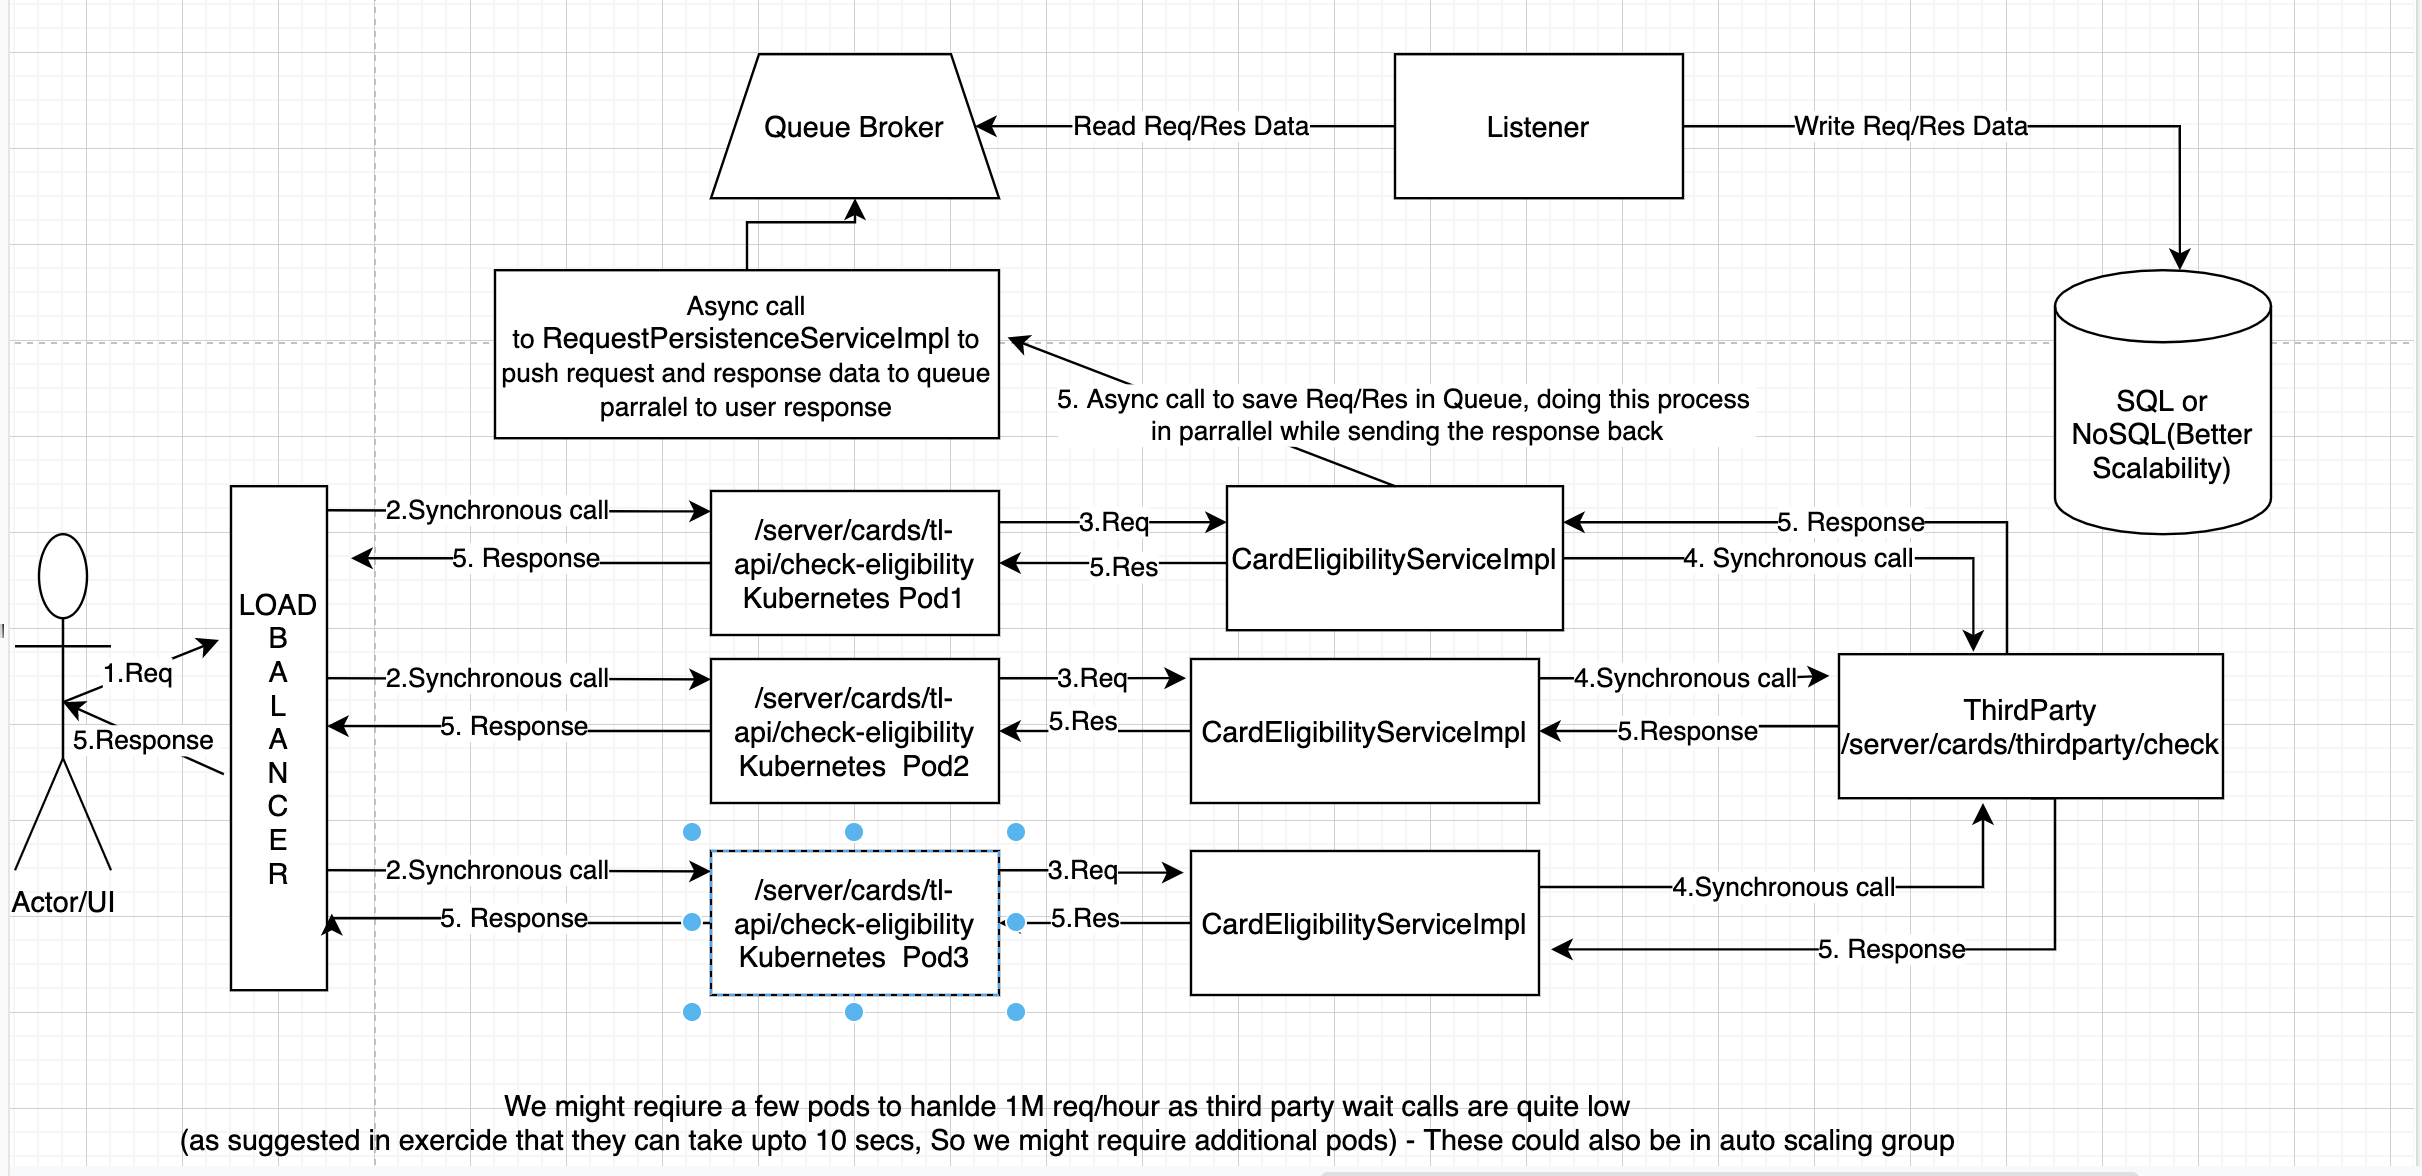
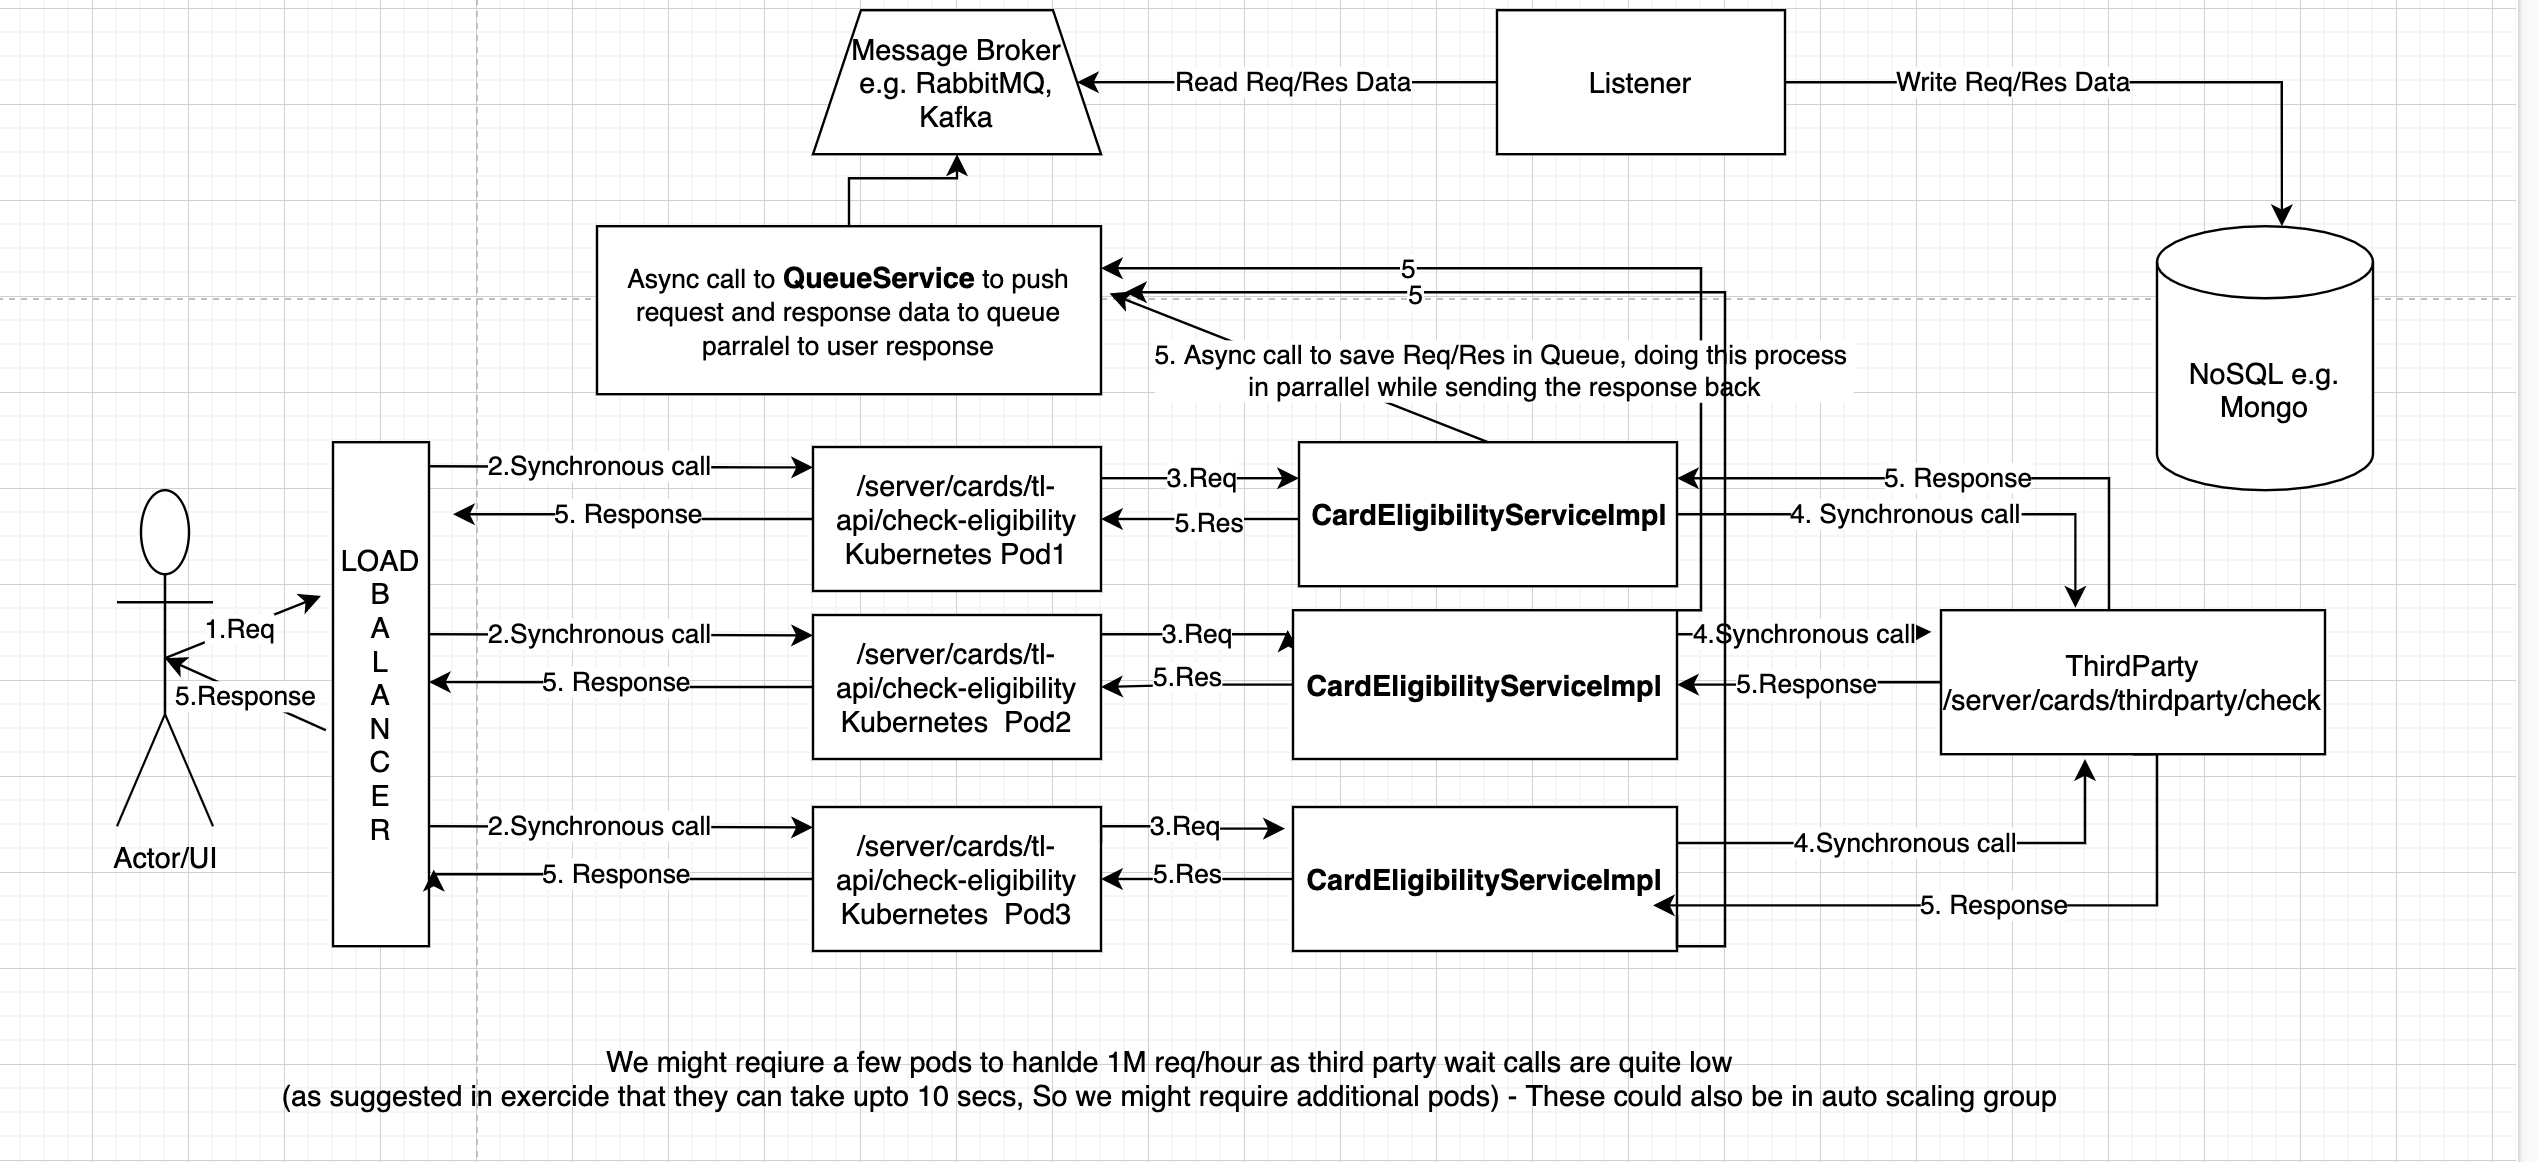
Added architecture diagram and README.md

diff --git a/server/cards/tl-api/src/main/java/com/tradeledger/cards/service/QueueServiceImpl.java b/server/cards/tl-api/src/main/java/com/tradeledger/cards/service/QueueServiceImpl.java
@@ -35,7 +35,7 @@ public class QueueServiceImpl implements QueueService {
         try {
             //Push message to a queue - Queue settings Rabbit/Kafka - then this could be
             //used by listeners to persist the data into DB
-            Thread.sleep(10);
+            Thread.sleep(50);
             log.info("message queued {} ", queueMessage);
         } catch (Exception e) {
             log.error("Error {} , queueMessage {} ", e, queueMessage);

diff --git a/README.md b/README.md
@@ -1,121 +1,51 @@
 # Cards Application
+## BackEnd 
+###Calculations
 
-## Problem statement
 
-A bank wants to launch 2 new credit card products, C1 and C2. To receive applications for the products the bank will collect the following detail about the _applicant_ in a web-form or mobile app, which the bank provides:
 
-1. Name
-2. Address
-3. Email id
+- Considering 1 request will take 10 seconds to process in synchronous manner as suggested in the 
+  test description.
+- Now, How our TL service responds to these requests depends highly on the hardware, servers etc
+  where the service is deployed. So considering server as Tomcat we can serve 200 requests per given second (with default number of threads).
+  So, we might need to have few pods of this service available.
+  1 tomcat can serve 200 requests / sec and for processing 1M request in first hour we need
+  to process 1000000/(60*60)= 278 requests/second. And each of these requests could take upto
+  10 seconds to receive a response. So lets say we have a strong Hardware , with 278 threads
+  configured for Tomcat. We need minimum 10-11 such servers to be able to process this volume.
+- We can orchestrate all these deployment pods with Kubernetes or maybe adding auto scaling groups.
+- We have resolved the database bottleneck using Async service and Queue Message Brokers (RabbitMQ/Kafka).
+  So, user won't have to wait until data is transferred to Queue and then persisted to DB using listeners.
+- Using NoSQL to store the data due it's availability , scalability and the fact that we don't need
+  any ACID properties or relation between tables.
 
-The submission of this form will be received by a Tradeledger API and sent over to a Thirdparty service for eligibility decisioning. The Thirdparty provides a RESTful api which responds with one of the following eligibilities:
+### Backend Architecture
 
-1. C1
-2. C2
-3. Both C1 and C2
-4. Neither C1 nor C2
+![image info](./server/cards/tl-api/TL-API-Architecture.png)
 
-The Tradeledger APIs should interface with the Thirdparty, sending an eligibility request and updating the user with the result of their application.
 
-## Exercise Overview
+### Handled Edge Cases
+  1. Error handling when third party api is down
+  2. input validation - mandatory fields
 
-### FE
+### Test Coverage - BE
 
-1. Create React App (CRA)
+![image info](./server/cards/tl-api/BETestCoverage.png)
 
-### BE
+## FrontEnd
 
-1. A Microservices with Spring Boot (2.2.3.RELEASE+)
-2. Build Automation Tool - Gradle (6.0.1+)
+1. Added Field level validations on the page.
+2. Upon submit response will be displayed i.e. number of cards or info message.
+3. In case the third party api is down user will be given a message saying that "Oops! There have been an issue connecting to the servers , 
+   Please try in a while".
+4. Used Redux for state management.
+5. Added back button functionality from results page.
 
-## Completing the exercise
-
-### Submission
-
-1. Fork the repo to your own repository or setup provided _.zip_ project into your own repository.
-2. Complete the exercise.
-3. Please provide a link to your public repo with the completed task to the Talent Acquisition team.
-
-### Duration
-
-You should spend around ~1.5hrs on this task. You may spend longer if you wish, but ensure you think about which are the most critical pieces to complete first.
-
-## How to Run
-
-Open the project with IntelliJ or Eclipse or any other IDE of your choice
-
-### FE
-1. Go To terminal.
-2. cd client/cards -- Browse to Directory i.e. client/cards
-3. npm i -- to install the app
-4. npm test -- to test the app
-5. npm start -- to run the app
-
-### BE
-1. Go To terminal.
-2. cd server/cards --- Browse to Directory i.e. server/cards
-3. ./gradlew build -- to build the solution and third party
-4. ./gradlew test -- to unit/integration test the solution and third party
-5. ./gradlew bootRun -- to run the solution and third party applications simultaneously
-6. ./gradlew clean -- to clean the solution and third party
-
-or alternatively you can use IDE's builtin plugin for Gradle for these Gradle goals
-
-_Note: Gradle version should be 6.0.1+_
-
-## Task
-
-1. For BE, in /server, build a synchronous Tradeledger API to orchestrate the journey from the application submission to retrieval of response. The API should call the provided Thirdparty endpoint over HTTP.
-2. For FE, in /client, implement a call to the API you've just built and display the results using the provided components.
-
-## Stub structure
-
-### FE
-Within `/client/cards` the FE application is a simple CRA. You are provided with a simple form with inputs for name, email and address. You are required to implement the code to call the BE service and display the result. 
-Feel free to include any additional packages to implement, test and style the application.
-
-### BE
-BE stub is provided in `/server/cards/tl-api`, this is setup to run a spring bootrun service on `localhost:8080`. 
-There is also the third party service which is setup as a separate subproject within gradle in `/server/cards/thirdparty`, 
-this exposes a third party service endpoint on `localhost:3317`.
-
-The structure of the `com.tradeledger.cards` structure is just a suggestion, feel free to modify or structure
-as you think is logical, makes sense and extendable in the future.
-
-### Thirdparty contract:
-
-_Request_
-
-```
-POST /eligibility/check
-```
-
-```json
-{
-  "name": "String",
-  "email": "String",
-  "address": "String"
-}
-```
-
-_Response_
-
-```json
-{
-  "eligibleCards": "Array of C1, C2, BOTH or None"
-}
-```
-
-## Considerations (only for Solution Design section):
-
-1. The bank believes that the products would be extremely popular and around 1 million requests will be received in the first hour, tailing off from there
-2. The Thirdparty might take up to 10secs to respond to the request
-3. The processed applications and results need to be stored for up to 7 years for audit purposes
-
-## Assessment Criteria
-
-When assessing your completed solution we will be considering the follow 3 aspects:
-
-1. Correctness - how correct the solution is and that it is working
-2. Testability - how testable solution is, and the type + level of testing
-3. Code structure - how well-structured the solution is with considerations of extensibility in future and that it is clearly understandable
+###Further Improvements
+I would have done below if I had more time and more knowledge on TypeScript
+1. Routing (Like if user provides /result url directly , we redirect them back to Form page) 
+2. Styling specially result page
+3. Refresh page issue on result page.
+4. UI tests (I couldn't complete this because I haven't really used typescript before, I mostly have used
+   react JS ). So everything that I updated 
+was just by learning , with redux added testing became more complicated and time-consuming.

diff --git a/README_Problem.md b/README_Problem.md
@@ -1,0 +1,121 @@
+# Cards Application
+
+## Problem statement
+
+A bank wants to launch 2 new credit card products, C1 and C2. To receive applications for the products the bank will collect the following detail about the _applicant_ in a web-form or mobile app, which the bank provides:
+
+1. Name
+2. Address
+3. Email id
+
+The submission of this form will be received by a Tradeledger API and sent over to a Thirdparty service for eligibility decisioning. The Thirdparty provides a RESTful api which responds with one of the following eligibilities:
+
+1. C1
+2. C2
+3. Both C1 and C2
+4. Neither C1 nor C2
+
+The Tradeledger APIs should interface with the Thirdparty, sending an eligibility request and updating the user with the result of their application.
+
+## Exercise Overview
+
+### FE
+
+1. Create React App (CRA)
+
+### BE
+
+1. A Microservices with Spring Boot (2.2.3.RELEASE+)
+2. Build Automation Tool - Gradle (6.0.1+)
+
+## Completing the exercise
+
+### Submission
+
+1. Fork the repo to your own repository or setup provided _.zip_ project into your own repository.
+2. Complete the exercise.
+3. Please provide a link to your public repo with the completed task to the Talent Acquisition team.
+
+### Duration
+
+You should spend around ~1.5hrs on this task. You may spend longer if you wish, but ensure you think about which are the most critical pieces to complete first.
+
+## How to Run
+
+Open the project with IntelliJ or Eclipse or any other IDE of your choice
+
+### FE
+1. Go To terminal.
+2. cd client/cards -- Browse to Directory i.e. client/cards
+3. npm i -- to install the app
+4. npm test -- to test the app
+5. npm start -- to run the app
+
+### BE
+1. Go To terminal.
+2. cd server/cards --- Browse to Directory i.e. server/cards
+3. ./gradlew build -- to build the solution and third party
+4. ./gradlew test -- to unit/integration test the solution and third party
+5. ./gradlew bootRun -- to run the solution and third party applications simultaneously
+6. ./gradlew clean -- to clean the solution and third party
+
+or alternatively you can use IDE's builtin plugin for Gradle for these Gradle goals
+
+_Note: Gradle version should be 6.0.1+_
+
+## Task
+
+1. For BE, in /server, build a synchronous Tradeledger API to orchestrate the journey from the application submission to retrieval of response. The API should call the provided Thirdparty endpoint over HTTP.
+2. For FE, in /client, implement a call to the API you've just built and display the results using the provided components.
+
+## Stub structure
+
+### FE
+Within `/client/cards` the FE application is a simple CRA. You are provided with a simple form with inputs for name, email and address. You are required to implement the code to call the BE service and display the result. 
+Feel free to include any additional packages to implement, test and style the application.
+
+### BE
+BE stub is provided in `/server/cards/tl-api`, this is setup to run a spring bootrun service on `localhost:8080`. 
+There is also the third party service which is setup as a separate subproject within gradle in `/server/cards/thirdparty`, 
+this exposes a third party service endpoint on `localhost:3317`.
+
+The structure of the `com.tradeledger.cards` structure is just a suggestion, feel free to modify or structure
+as you think is logical, makes sense and extendable in the future.
+
+### Thirdparty contract:
+
+_Request_
+
+```
+POST /eligibility/check
+```
+
+```json
+{
+  "name": "String",
+  "email": "String",
+  "address": "String"
+}
+```
+
+_Response_
+
+```json
+{
+  "eligibleCards": "Array of C1, C2, BOTH or None"
+}
+```
+
+## Considerations (only for Solution Design section):
+
+1. The bank believes that the products would be extremely popular and around 1 million requests will be received in the first hour, tailing off from there
+2. The Thirdparty might take up to 10secs to respond to the request
+3. The processed applications and results need to be stored for up to 7 years for audit purposes
+
+## Assessment Criteria
+
+When assessing your completed solution we will be considering the follow 3 aspects:
+
+1. Correctness - how correct the solution is and that it is working
+2. Testability - how testable solution is, and the type + level of testing
+3. Code structure - how well-structured the solution is with considerations of extensibility in future and that it is clearly understandable
